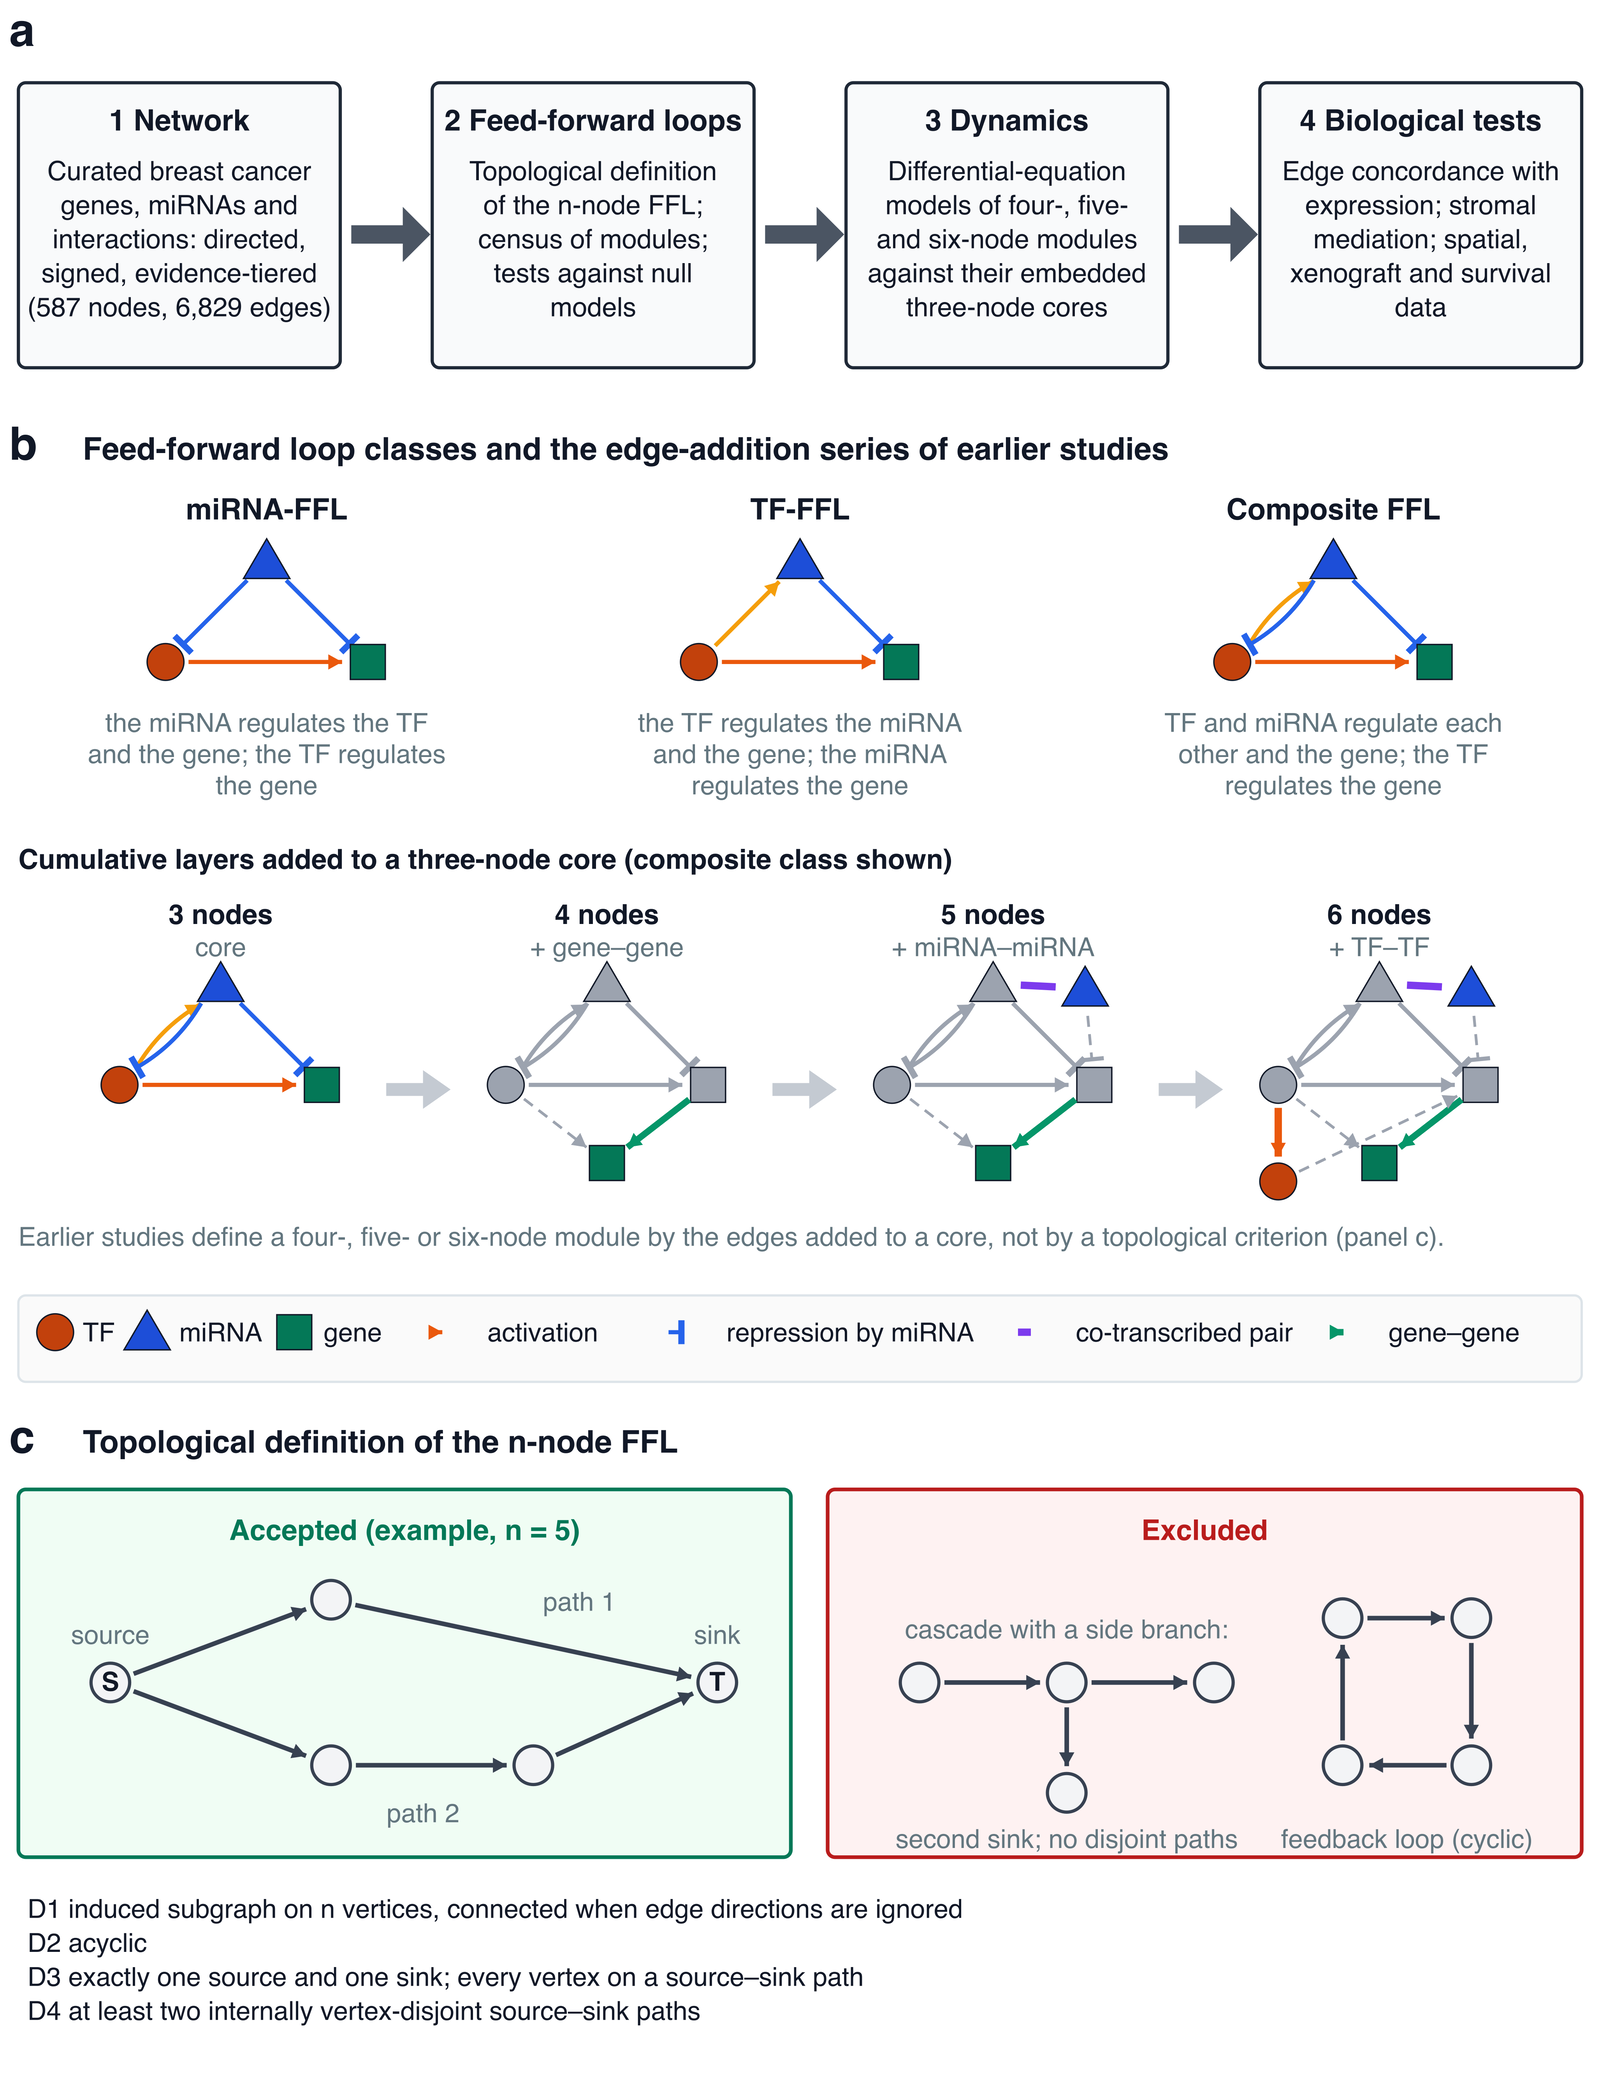
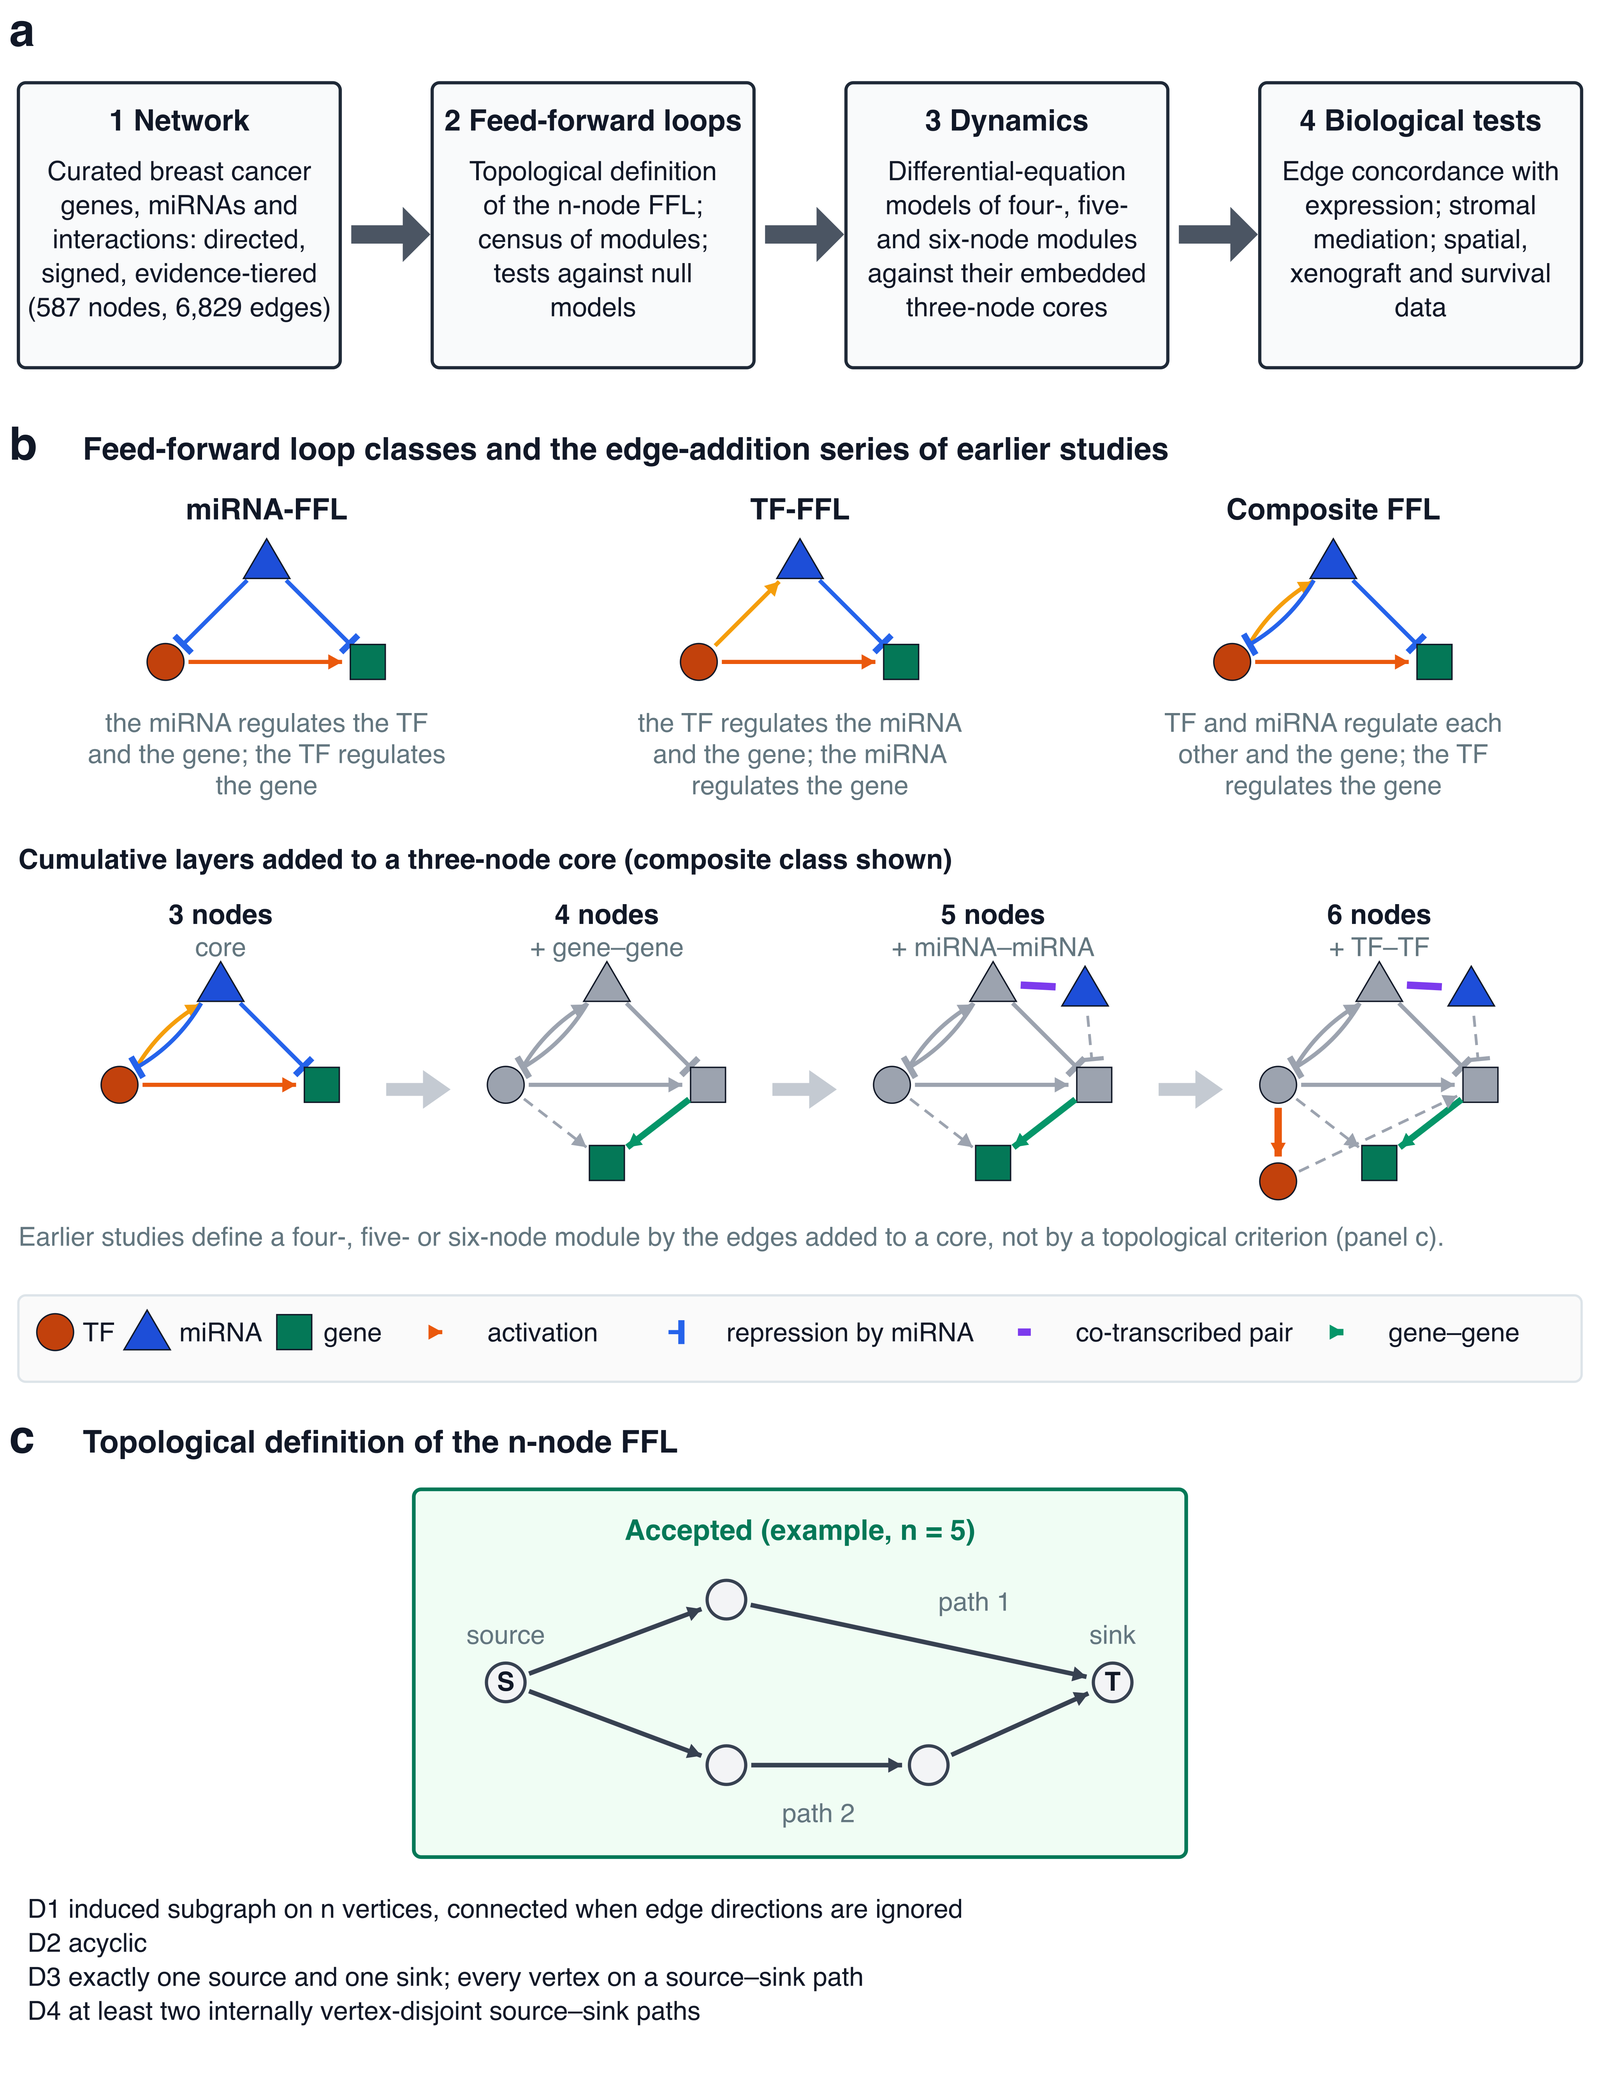
Figs 1 and 2 as in the revised paper; check of the whole six-node exemplar circuit
- scripts/15_figures_and_tables/74_fig1_concept.py: panel c shows one example that satisfies the
  definition of the n-node FFL; the panel of excluded configurations is removed. docs/images/Fig1.png
  redrawn.
- scripts/15_figures_and_tables/72_fig2_exemplar_circuits.R: the key labels the 30 miRNA-miRNA edges
  of the exemplar circuits "miRNA–miRNA (exemplar)". docs/images/Fig2.png redrawn.
- scripts/03_ffl_census/02i_exemplar_whole_circuit_check.py (new): tests the ten molecules of the
  six-node exemplar circuit against conditions D1-D4 in the analysed network, the deposited network
  and the census graph, using only the files of this repository.

diff --git a/scripts/03_ffl_census/02i_exemplar_whole_circuit_check.py b/scripts/03_ffl_census/02i_exemplar_whole_circuit_check.py
@@ -1,0 +1,118 @@
+#!/usr/bin/env python3
+"""Test the whole six-node exemplar circuit (its 10 molecules) against conditions D1-D4 (Methods 2.2) in two
+graphs, from the deposited files of the public repository only:
+  (1) the analysed network (Table S2 rows with in_analysed_network TRUE), each reciprocal TF<->miRNA pair replaced by its
+      TF->miRNA arc;
+  (2) the census graph: (1) plus the TRRUST arcs (data/network/layer_TF_target.tsv), the gene-gene layer
+      (data/network/layer_gene_gene.tsv; STRING associations in the orientation listed) and the miRNA pairs co-clustered at
+      10 kb (data/network/layer_miRNA_miRNA.tsv, threshold_10kb), each pair entered as two opposed arcs.
+D1 induced and weakly connected; D2 acyclic; D3 one source, one sink, every vertex on a source-sink path; D4 at least two
+internally vertex-disjoint source-sink paths. Prints the result and any directed cycle. No external packages.
+Usage: python3 scripts/03_ffl_census/02i_exemplar_whole_circuit_check.py [repository root]"""
+import csv, json, os, sys
+from collections import defaultdict
+
+R = sys.argv[1] if len(sys.argv) > 1 else os.path.dirname(os.path.dirname(os.path.dirname(os.path.abspath(__file__))))
+mm = json.load(open(f"{R}/data/network/name_map.json"))["merge_map"]
+sif = [l.rstrip("\n").split("\t") for l in open(f"{R}/analyses/original_submission_code/SIF_files/6-TF.sif") if l.strip()]
+V = sorted({mm.get(r[0], r[0]) for r in sif} | {mm.get(r[-1], r[-1]) for r in sif})
+ntype = {r["name"]: r["type"] for r in csv.DictReader(open(f"{R}/data/network/canonical_nodes.tsv"), delimiter="\t")}
+print("circuit molecules (%d):" % len(V), ", ".join(V))
+
+net = set(); deposited = set()
+for r in csv.DictReader(open(f"{R}/supplementary_tables/TableS2_all_interactions.csv")):
+    if r["source"] in V and r["target"] in V:
+        deposited.add((r["source"], r["target"]))
+        if r["in_analysed_network"].upper() == "TRUE": net.add((r["source"], r["target"]))
+
+
+def collapse(arcs):   # reciprocal TF<->miRNA pair -> TF->miRNA arc
+    return {(a, b) for a, b in arcs if not (ntype.get(a) == "miRNA" and ntype.get(b) == "TF" and (b, a) in arcs)}
+
+
+census = set(net)
+for r in csv.DictReader(open(f"{R}/data/network/layer_TF_target.tsv"), delimiter="\t"):
+    if r["source"] in V and r["target"] in V: census.add((r["source"], r["target"]))
+for r in csv.DictReader(open(f"{R}/data/network/layer_gene_gene.tsv"), delimiter="\t"):
+    if r["source"] in V and r["target"] in V: census.add((r["source"], r["target"]))
+for r in csv.DictReader(open(f"{R}/data/network/layer_miRNA_miRNA.tsv"), delimiter="\t"):
+    if r["threshold_10kb"].upper() == "TRUE" and r["miRNA_1"] in V and r["miRNA_2"] in V:
+        census |= {(r["miRNA_1"], r["miRNA_2"]), (r["miRNA_2"], r["miRNA_1"])}
+
+
+def cycle(arcs):
+    adj = defaultdict(list)
+    for a, b in sorted(arcs): adj[a].append(b)      # sorted: the same cycle is reported on every run
+    color, stack = {}, []
+    def dfs(u):
+        color[u] = 1; stack.append(u)
+        for w in adj[u]:
+            if color.get(w) == 1: return stack[stack.index(w):] + [w]
+            if not color.get(w):
+                c = dfs(w)
+                if c: return c
+        color[u] = 2; stack.pop(); return None
+    for v in V:
+        if not color.get(v):
+            c = dfs(v)
+            if c: return c
+    return None
+
+
+def disjoint_paths(arcs, s, t):   # unit vertex capacities by node splitting, augmenting paths (BFS)
+    cap = defaultdict(int); adj = defaultdict(set)
+    def add(u, v, c): cap[(u, v)] += c; adj[u].add(v); adj[v].add(u)
+    for v in V: add((v, "in"), (v, "out"), 1 if v not in (s, t) else 10**6)
+    for a, b in arcs: add((a, "out"), (b, "in"), 1)
+    src, snk, flow = (s, "out"), (t, "in"), 0
+    while True:
+        prev, q = {src: None}, [src]
+        while q and snk not in prev:
+            u = q.pop(0)
+            for w in adj[u]:
+                if w not in prev and cap[(u, w)] > 0: prev[w] = u; q.append(w)
+        if snk not in prev: return flow
+        w = snk
+        while prev[w] is not None: u = prev[w]; cap[(u, w)] -= 1; cap[(w, u)] += 1; w = u
+        flow += 1
+
+
+def test(name, arcs):
+    arcs = {(a, b) for a, b in arcs if a in V and b in V and a != b}
+    und = defaultdict(set)
+    for a, b in arcs: und[a].add(b); und[b].add(a)
+    seen, q = {V[0]}, [V[0]]
+    while q:
+        u = q.pop()
+        for w in und[u] - seen: seen.add(w); q.append(w)
+    d1 = len(seen) == len(V)
+    cyc = cycle(arcs); d2 = cyc is None
+    indeg = {v: sum(1 for a, b in arcs if b == v) for v in V}; outdeg = {v: sum(1 for a, b in arcs if a == v) for v in V}
+    srcs = [v for v in V if indeg[v] == 0]; snks = [v for v in V if outdeg[v] == 0]
+    d3 = d4 = False; npaths = None
+    if len(srcs) == 1 and len(snks) == 1:
+        s, t = srcs[0], snks[0]
+        fwd = defaultdict(set); bwd = defaultdict(set)
+        for a, b in arcs: fwd[a].add(b); bwd[b].add(a)
+        def reach(x, g):
+            r, q = {x}, [x]
+            while q:
+                u = q.pop()
+                for w in g[u] - r: r.add(w); q.append(w)
+            return r
+        d3 = reach(s, fwd) & reach(t, bwd) == set(V)
+        if d2: npaths = disjoint_paths(arcs, s, t); d4 = npaths >= 2
+    print(f"\n{name}: {len(arcs)} arcs; D1 connected {d1}; D2 acyclic {d2}"
+          + (f" (cycle: {' -> '.join(cyc)})" if cyc else "")
+          + f"; sources {srcs}; sinks {snks}; D3 {d3}; D4 {d4}" + (f" ({npaths} disjoint paths)" if npaths is not None else ""))
+    print(f"  satisfies D1-D4: {d1 and d2 and d3 and d4}")
+    if d1 and d2 and d3 and d4:
+        no = arcs - {("COL1A1", "COL3A1")}
+        print("  without COL1A1->COL3A1:", "still satisfies" if (cycle(no) is None and
+              len([v for v in V if sum(1 for a, b in no if a == v) == 0]) == 1) else "fails (no single sink)")
+
+
+test("analysed network as given", net)
+test("analysed network, reciprocal pairs replaced by the TF->miRNA arc", collapse(net))
+test("census graph (TRRUST, STRING, 10-kb co-transcription added; reciprocal pairs replaced)", collapse(census))
+test("deposited network (with the 30 miRNA-miRNA exemplar edges), reciprocal pairs replaced", collapse(deposited))

diff --git a/scripts/15_figures_and_tables/74_fig1_concept.py b/scripts/15_figures_and_tables/74_fig1_concept.py
@@ -124,7 +124,8 @@ add('<g transform="translate(0,-14)">')
 # ---------------------------------------------------------------- c: definition
 text(1, 172, "c", size=5, weight="bold")
 text(9, 172, "Topological definition of the n-node FFL", size=3.4, weight="bold")
-# accepted example
+# example that satisfies the definition (centred)
+add('<g transform="translate(43,0)">')
 rect(2, 176, 84, 40, stroke="#047857", fill="#F0FDF4", sw=0.4)
 text(44, 181.5, "Accepted (example, n = 5)", size=3.1, weight="bold", anchor="middle", color="#047857")
 S = (12, 197); A = (36, 188); B = (36, 206); C = (58, 206); T = (78, 197)
@@ -134,17 +135,7 @@ for k, p in pts.items(): node("plain", *p)
 text(S[0], S[1] + 0.9, "S", size=2.85, anchor="middle", weight="bold"); text(T[0], T[1] + 0.9, "T", size=2.85, anchor="middle", weight="bold")
 text(S[0], S[1] - 4.2, "source", size=2.85, anchor="middle", color=COL["grey"]); text(T[0], T[1] - 4.2, "sink", size=2.85, anchor="middle", color=COL["grey"])
 text(63, 189.2, "path 1", size=2.85, anchor="middle", color=COL["grey"]); text(46, 212.2, "path 2", size=2.85, anchor="middle", color=COL["grey"])
-# excluded examples
-rect(90, 176, 82, 40, stroke="#B91C1C", fill="#FEF2F2", sw=0.4)
-text(131, 181.5, "Excluded", size=3.1, weight="bold", anchor="middle", color="#B91C1C")
-S2 = (100, 197); A2 = (116, 197); T2 = (132, 197); D2 = (116, 209)
-for a, b in [(S2, A2), (A2, T2), (A2, D2)]: edge(a, b, "plain", "plain", "#374151", "arrow", sw=0.5)
-for p in (S2, A2, T2, D2): node("plain", *p)
-text(116, 192.2, "cascade with a side branch:", size=2.85, anchor="middle", color=COL["grey"]); text(116, 215.0, "second sink; no disjoint paths", size=2.85, anchor="middle", color=COL["grey"])
-P1 = (146, 190); P2 = (160, 190); P3 = (160, 206); P4 = (146, 206)
-for a, b in [(P1, P2), (P2, P3), (P3, P4), (P4, P1)]: edge(a, b, "plain", "plain", "#374151", "arrow", sw=0.5)
-for p in (P1, P2, P3, P4): node("plain", *p)
-text(153, 215.0, "feedback loop (cyclic)", size=2.85, anchor="middle", color=COL["grey"])
+add('</g>')
 # conditions
 conds = ["D1  induced subgraph on n vertices, connected when edge directions are ignored", "D2  acyclic", "D3  exactly one source and one sink; every vertex on a source–sink path", "D4  at least two internally vertex-disjoint source–sink paths"]
 for i, c in enumerate(conds): text(3, 222.6 + i * 3.7, c, size=2.85)

diff --git a/scripts/03_ffl_census/README.md b/scripts/03_ffl_census/README.md
@@ -23,6 +23,7 @@ The census of the paper was re-run in `analyses/census_and_motif_nulls/`.
 | `02e_exemplar_audit.py` | Tests the exemplar circuits of the original submission (SIF_files/4-TF.sif, 5-TF.sif, 6-TF.sif) against the formal definition: edge support, whole-structure size, exhaustive test of every induced n-subset, and the subsets … |
 | `02g_nineclass_search.py` | Exact targeted search for modules realising ALL NINE interaction classes present in G. |
 | `02h_exemplar_permissive.py` | Re-tests the exemplar circuits of the original submission on the PERMISSIVE graph, in which the 941 undirected STRING associations are admitted as orientable edges (so COL1A1--COL3A1, which has no directed evidence anywhere, does … |
+| `02i_exemplar_whole_circuit_check.py` | Test the whole six-node exemplar circuit (its 10 molecules) against conditions D1-D4 (Methods 2.2) in two graphs, from the deposited files of the public repository only: (1) the analysed network (Table S2 rows with … |
 | `02x_ffl_core_crosscheck.py` | Independent cross-check of the 3-node FFL census and coherence typing. |
 | `02y_ffl_per_network.py` | Enumerate 3-node FFL cores WITHIN each of the six networks of the original submission separately, after applying only the identifier harmonisation. |
 | `03_ffl_census.py` | n-node feed-forward loop census by connected-induced-subgraph enumeration. |
